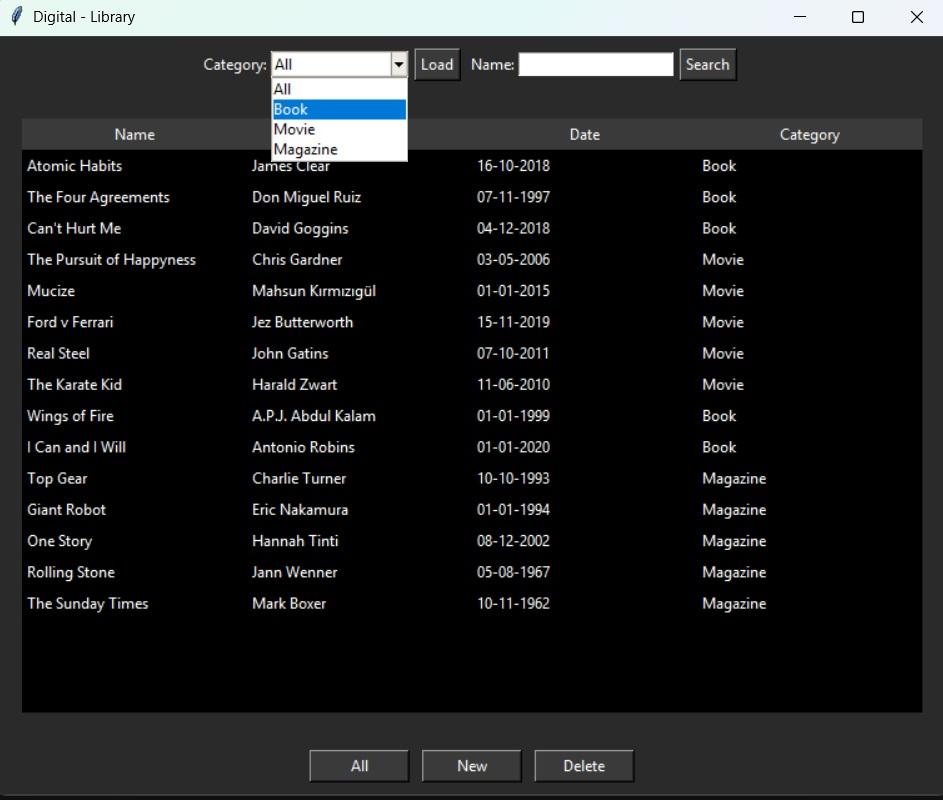
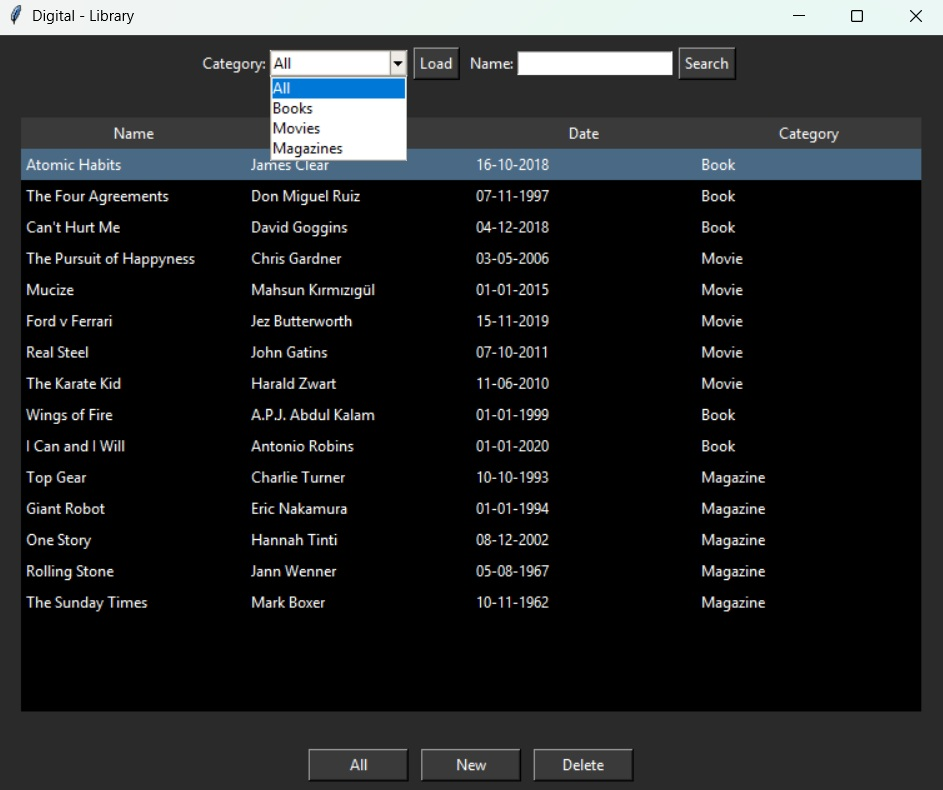
website

diff --git a/index.html b/index.html
@@ -120,9 +120,9 @@
 							<div class="feature-card">
 								<h4>📚 Complete Media Management</h4>
 								<ul>
-									<li><strong>Books:</strong> Track authors, publication dates, and genres</li>
-									<li><strong>Movies:</strong> Organize by director, release year, and format</li>
-									<li><strong>Magazines:</strong> Catalog issues, publishers, and publication dates</li>
+									<li><strong>Books:</strong> Track authors, and publication dates</li>
+									<li><strong>Movies:</strong> Organize by director, and release year</li>
+									<li><strong>Magazines:</strong> Publishers, and publication dates</li>
 								</ul>
 							</div>
 							
@@ -156,10 +156,10 @@
 							<div class="feature-card">
 								<h4>🎯 Category Filtering</h4>
 								<ul>
-									<li><strong>All Categories:</strong> View complete library collection</li>
-									<li><strong>Books Only:</strong> Filter to see only books</li>
-									<li><strong>Movies Only:</strong> Isolate movie collection</li>
-									<li><strong>Magazines Only:</strong> View magazine issues separately</li>
+									<li><strong>All :</strong> View complete library collection</li>
+									<li><strong>Books :</strong> Filter to see only books</li>
+									<li><strong>Movies :</strong> Isolate movie collection</li>
+									<li><strong>Magazines :</strong> View magazine issues separately</li>
 								</ul>
 							</div>
 							
@@ -192,9 +192,9 @@
 								<h4>➕ Easy Data Entry</h4>
 								<ul>
 									<li><strong>Simple Form:</strong> Clean, uncluttered input fields</li>
-									<li><strong>Date Picker:</strong> Calendar selection for accurate dates</li>
-									<li><strong>Category Selection:</strong> Dropdown with clear options</li>
-									<li><strong>Validation:</strong> Required field checking</li>
+									<li><strong>Date Field:</strong> Help the user to know the year of publish</li>
+									<li><strong>Category Field:</strong> Make easy for users to select by category</li>
+									<li><strong>Author:</strong> User can choose media by their favourite authors </li>
 								</ul>
 							</div>
 							

diff --git a/main.py b/main.py
@@ -127,7 +127,7 @@ class LibraryGUI:
         tk.Label(frame, text="Category:", bg="#2A2A2A", fg="white").grid(row=0, column=0)
 
         self.category = ttk.Combobox(
-            frame, values=["All", "Book", "Movie", "Magazine"], width=15
+            frame, values=["All", "Books", "Movies", "Magazines"], width=15
         )
         self.category.current(0)
         self.category.grid(row=0, column=1)
